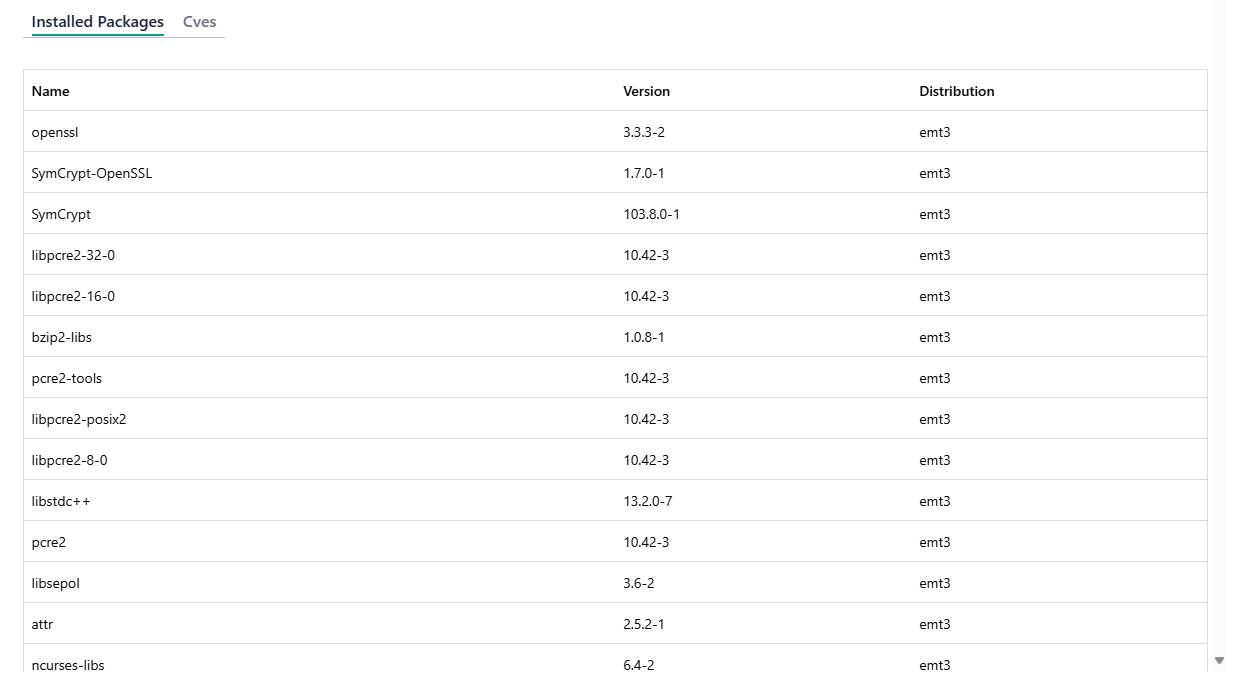
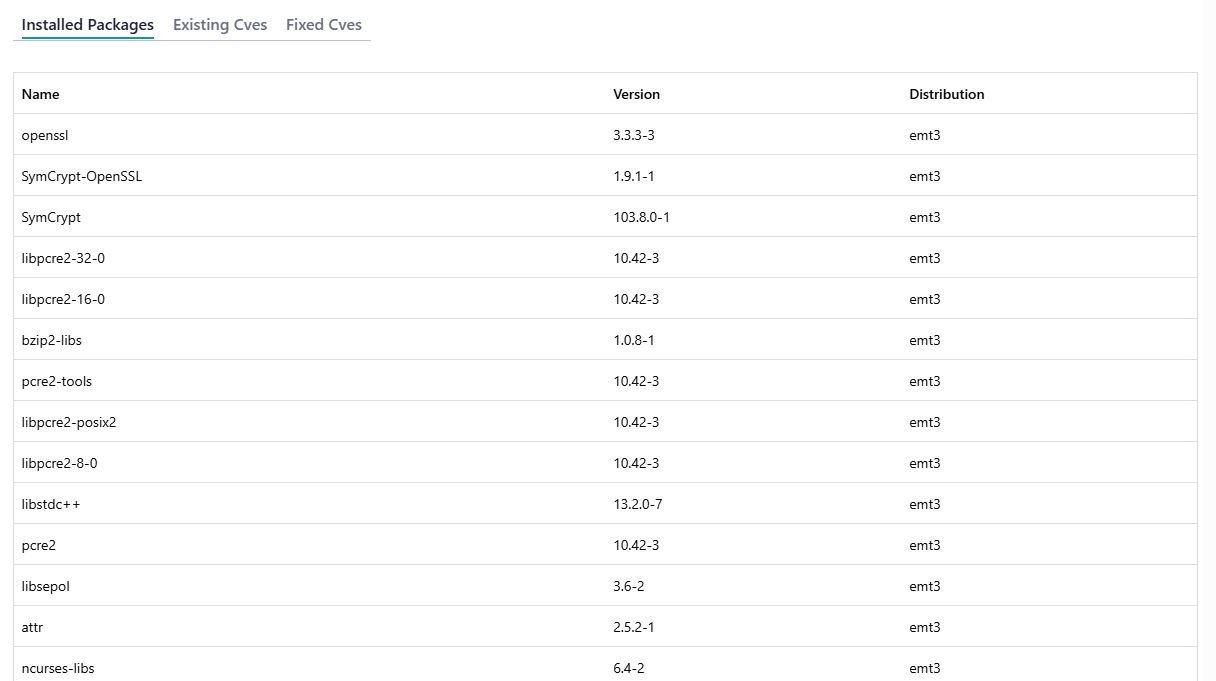
Docs Update for supporting CVEs tracking feature in EMF

diff --git a/docs/user_guide/advanced_functionality/view_os_profiles.rst b/docs/user_guide/advanced_functionality/view_os_profiles.rst
@@ -47,10 +47,10 @@ View CVEs Details
 
 Click the **Existing Cves** and **Fixed Cves** tab to view the information about list of existing CVEs and fixed CVEson the OS resource:
 
-.. figure:: images/os_profile_drawer_cves.png
+.. figure:: images/os_profile_drawer_existing_cves.png
    :alt: View Existing CVEs Details
 
-.. figure:: images/os_profile_drawer_cves.png
+.. figure:: images/os_profile_drawer_fixed_cves.png
    :alt: View Fixed CVEs Details
 
 Available OS Resources during the Host Configuration

diff --git a/docs/user_guide/set_up_edge_infra/edge_node_states/provisioned_host_details.rst b/docs/user_guide/set_up_edge_infra/edge_node_states/provisioned_host_details.rst
@@ -237,8 +237,10 @@ Click the **OS Profile** tab to view the OS profile details:
      - Description
    * - Installed Packages
      - The list of installed packages on the installed OS.
-   * - Cves
+   * - Existing Cves
      - The list of existing CVEs on the installed OS.
+   * - Fixed Cves
+     - The list of fixed CVEs on the installed OS.
 
 View Host Label
 ^^^^^^^^^^^^^^^^^^^^^^^^^
